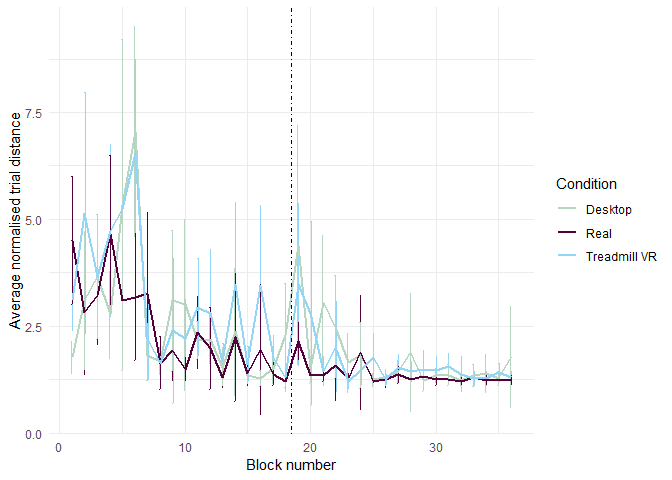
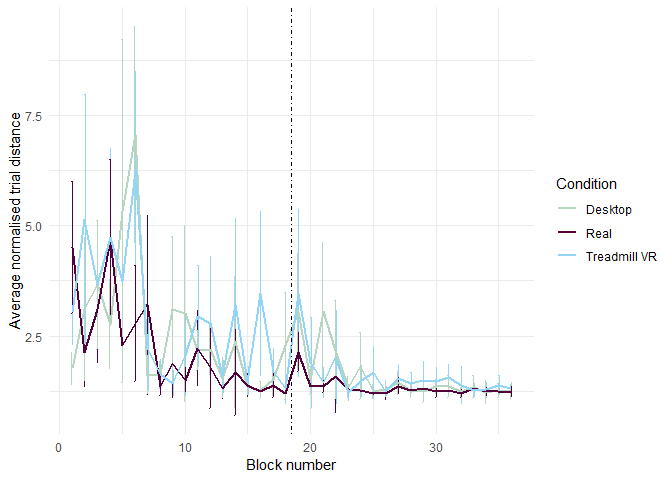
updates paper all data

diff --git a/Report/paper-all-data.md b/Report/paper-all-data.md
@@ -11,18 +11,12 @@ Per phase separation
 PER BLOCK
 ---------
 
-![](paper-all-data_files/figure-markdown_github/unnamed-chunk-2-1.png)![](paper-all-data_files/figure-markdown_github/unnamed-chunk-2-2.png)![](paper-all-data_files/figure-markdown_github/unnamed-chunk-2-3.png)![](paper-all-data_files/figure-markdown_github/unnamed-chunk-2-4.png)![](paper-all-data_files/figure-markdown_github/unnamed-chunk-2-5.png)![](paper-all-data_files/figure-markdown_github/unnamed-chunk-2-6.png)![](paper-all-data_files/figure-markdown_github/unnamed-chunk-2-7.png)![](paper-all-data_files/figure-markdown_github/unnamed-chunk-2-8.png)
+![](paper-all-data_files/figure-markdown_github/unnamed-chunk-2-1.png)![](paper-all-data_files/figure-markdown_github/unnamed-chunk-2-2.png)![](paper-all-data_files/figure-markdown_github/unnamed-chunk-2-3.png)![](paper-all-data_files/figure-markdown_github/unnamed-chunk-2-4.png)![](paper-all-data_files/figure-markdown_github/unnamed-chunk-2-5.png)![](paper-all-data_files/figure-markdown_github/unnamed-chunk-2-6.png)![](paper-all-data_files/figure-markdown_github/unnamed-chunk-2-7.png)![](paper-all-data_files/figure-markdown_github/unnamed-chunk-2-8.png)![](paper-all-data_files/figure-markdown_github/unnamed-chunk-2-9.png)![](paper-all-data_files/figure-markdown_github/unnamed-chunk-2-10.png)
 
 Pointing
 --------
 
-![](paper-all-data_files/figure-markdown_github/unnamed-chunk-3-1.png)![](paper-all-data_files/figure-markdown_github/unnamed-chunk-3-2.png)
-
-Block measures
-==============
-
-Sum of errors
--------------
+![](paper-all-data_files/figure-markdown_github/unnamed-chunk-3-1.png)![](paper-all-data_files/figure-markdown_github/unnamed-chunk-3-2.png) \#\# Sum of errors
 
 Measure of overall sum of errors. Mean columns define mean sum of errors for all participants in that block
 
@@ -32,9 +26,7 @@ Measure of overall sum of errors. Mean columns define mean sum of errors for all
 | Real               |     82.90909|     5.454546|     1.590909|     0.8607021|   0.0679299|     0.9632893|   0.0268788|
 | Treadmill VR       |     85.50000|    32.850000|    12.800000|     0.6195643|   0.0792096|     0.7899438|   0.0538944|
 
-    ## Using learning.condition as id variables
-
-![](paper-all-data_files/figure-markdown_github/unnamed-chunk-5-1.png)![](paper-all-data_files/figure-markdown_github/unnamed-chunk-5-2.png)![](paper-all-data_files/figure-markdown_github/unnamed-chunk-5-3.png)
+![](paper-all-data_files/figure-markdown_github/unnamed-chunk-4-1.png)![](paper-all-data_files/figure-markdown_github/unnamed-chunk-4-2.png)![](paper-all-data_files/figure-markdown_github/unnamed-chunk-4-3.png)
 
 Normalised distance
 -------------------
@@ -43,13 +35,11 @@ Measure of mean distance. First three columns define mean normalised distance in
 
 | learning.condition |  block1.mean|  block3.mean|  block4.mean|  block34.diff|  block34.se|  block14.diff|  block14.se|
 |:-------------------|------------:|------------:|------------:|-------------:|-----------:|-------------:|-----------:|
-| Desktop            |     3.947872|     1.722262|     2.854267|    -0.1640028|   0.0738046|     0.1963527|   0.0763993|
-| Real               |     3.522940|     1.575323|     1.593967|    -0.0190986|   0.0306256|     0.3613898|   0.0527887|
-| Treadmill VR       |     4.739353|     2.218745|     2.249314|    -0.0037351|   0.0487285|     0.3430108|   0.0600789|
+| Desktop            |     3.947872|     1.722262|     2.427133|    -0.1253561|   0.0729458|     0.2389973|   0.0721084|
+| Real               |     3.308835|     1.382138|     1.530321|    -0.0514270|   0.0296911|     0.3464442|   0.0453461|
+| Treadmill VR       |     4.457657|     2.161947|     2.117841|     0.0128666|   0.0527691|     0.3390977|   0.0589867|
 
-    ## Using learning.condition as id variables
-
-![](paper-all-data_files/figure-markdown_github/unnamed-chunk-6-1.png)![](paper-all-data_files/figure-markdown_github/unnamed-chunk-6-2.png)![](paper-all-data_files/figure-markdown_github/unnamed-chunk-6-3.png)
+![](paper-all-data_files/figure-markdown_github/unnamed-chunk-5-1.png)![](paper-all-data_files/figure-markdown_github/unnamed-chunk-5-2.png)![](paper-all-data_files/figure-markdown_github/unnamed-chunk-5-3.png)
 
 Stats
 =====
@@ -59,15 +49,32 @@ Block T tests
 
 Paired block comparisons for improvement in different condiutions
 
+### Block 1-4
+
+Paired t tests between min normalised distance difference in blocks 1 and 4.
+
+| condition    |     estimate|  statistic|    p.value|  parameter|  conf.low|  conf.high| method        | alternative |
+|:-------------|------------:|----------:|----------:|----------:|---------:|----------:|:--------------|:------------|
+| real-real    |     1.947895|   8.126597|  0.0000001|         20|  1.447903|   2.447888| Paired t-test | two.sided   |
+| ve-real      |     2.225610|   4.677051|  0.0001877|         18|  1.225870|   3.225349| Paired t-test | two.sided   |
+| vr-real      |     2.295710|   5.332316|  0.0000381|         19|  1.394605|   3.196815| Paired t-test | two.sided   |
+| And for numb |  er of error|          s|           |           |          |           |               |             |
+
+| condition |   estimate|  statistic|  p.value|  parameter|   conf.low|  conf.high| method        | alternative |
+|:----------|----------:|----------:|--------:|----------:|----------:|----------:|:--------------|:------------|
+| real-real |  12.909091|  16.380577|    0e+00|         21|  11.270203|   14.54798| Paired t-test | two.sided   |
+| ve-real   |   9.421053|   8.394127|    1e-07|         18|   7.063107|   11.77900| Paired t-test | two.sided   |
+| vr-real   |   8.775000|  11.168682|    0e+00|         19|   7.130555|   10.41945| Paired t-test | two.sided   |
+
 ### Block 3-4
 
 Paired t tests between min normalised distance difference in blocks 3 and 4.
 
 | condition |    estimate|   statistic|    p.value|  parameter|    conf.low|  conf.high| method        | alternative |
 |:----------|-----------:|-----------:|----------:|----------:|-----------:|----------:|:--------------|:------------|
-| real-real |  -0.0186440|  -0.1581716|  0.8758327|         21|  -0.2637728|  0.2264847| Paired t-test | two.sided   |
-| ve-real   |  -1.1320052|  -2.0610797|  0.0540446|         18|  -2.2858929|  0.0218826| Paired t-test | two.sided   |
-| vr-real   |  -0.0305689|  -0.1145055|  0.9100385|         19|  -0.5893326|  0.5281947| Paired t-test | two.sided   |
+| real-real |  -0.1481832|  -1.1666069|  0.2564469|         21|  -0.4123373|  0.1159708| Paired t-test | two.sided   |
+| ve-real   |  -0.7048706|  -1.7923125|  0.0899076|         18|  -1.5311094|  0.1213682| Paired t-test | two.sided   |
+| vr-real   |   0.0441062|   0.1566285|  0.8771900|         19|  -0.5452841|  0.6334965| Paired t-test | two.sided   |
 
 And for number of errors
 
@@ -81,12 +88,12 @@ And for number of errors
 
 Paired t tests between min normalised distance difference in blocks 1 and 4.
 
-| condition    |     estimate|  statistic|    p.value|  parameter|    conf.low|  conf.high| method        | alternative |
-|:-------------|------------:|----------:|----------:|----------:|-----------:|----------:|:--------------|:------------|
-| real-real    |     1.928734|   5.431976|  0.0000257|         20|   1.1880702|   2.669398| Paired t-test | two.sided   |
-| ve-real      |     1.093604|   1.928134|  0.0697654|         18|  -0.0980027|   2.285211| Paired t-test | two.sided   |
-| vr-real      |     2.490039|   5.001329|  0.0000793|         19|   1.4479740|   3.532105| Paired t-test | two.sided   |
-| And for numb |  er of error|          s|           |           |            |           |               |             |
+| condition    |     estimate|  statistic|    p.value|  parameter|   conf.low|  conf.high| method        | alternative |
+|:-------------|------------:|----------:|----------:|----------:|----------:|----------:|:--------------|:------------|
+| real-real    |     1.781306|   6.130112|  0.0000054|         20|  1.1751603|   2.387451| Paired t-test | two.sided   |
+| ve-real      |     1.520739|   3.299164|  0.0039887|         18|  0.5523257|   2.489152| Paired t-test | two.sided   |
+| vr-real      |     2.339816|   4.684741|  0.0001614|         19|  1.2944454|   3.385187| Paired t-test | two.sided   |
+| And for numb |  er of error|          s|           |           |           |           |               |             |
 
 | condition |  estimate|  statistic|  p.value|  parameter|   conf.low|  conf.high| method        | alternative |
 |:----------|---------:|----------:|--------:|----------:|----------:|----------:|:--------------|:------------|
@@ -100,9 +107,9 @@ Paired t tests between min normalised distance difference in blocks 1 and 6.
 
 | condition |  estimate|  statistic|  p.value|  parameter|  conf.low|  conf.high| method        | alternative |
 |:----------|---------:|----------:|--------:|----------:|---------:|----------:|:--------------|:------------|
-| real-real |  2.283372|   8.817858|  0.0e+00|         20|  1.743215|   2.823529| Paired t-test | two.sided   |
-| ve-real   |  2.563180|   6.199245|  7.5e-06|         18|  1.694519|   3.431841| Paired t-test | two.sided   |
-| vr-real   |  3.511071|   8.363107|  1.0e-07|         18|  2.629044|   4.393098| Paired t-test | two.sided   |
+| real-real |  2.069267|   8.578768|  0.0e+00|         20|  1.566116|   2.572418| Paired t-test | two.sided   |
+| ve-real   |  2.640617|   6.472810|  4.3e-06|         18|  1.783535|   3.497699| Paired t-test | two.sided   |
+| vr-real   |  3.230200|   7.471135|  6.0e-07|         18|  2.321851|   4.138549| Paired t-test | two.sided   |
 
 And for number of errors
 
@@ -119,17 +126,17 @@ Independent block improvement comparisons between conditions for distance
 
 | Comparison        |  mean.first|  mean.second|    p.value|
 |:------------------|-----------:|------------:|----------:|
-| Desktop - real    |  -0.1440074|   -0.3589776|  0.0553851|
-| Treadmil - real   |  -0.3252250|   -0.3589776|  0.6757288|
-| Treadmil- Desktop |  -0.3252250|   -0.1440074|  0.1147730|
+| Desktop - real    |  -0.2006440|   -0.3444842|  0.1514791|
+| Treadmil - real   |  -0.3152113|   -0.3444842|  0.7041065|
+| Treadmil- Desktop |  -0.3152113|   -0.2006440|  0.2722008|
 
 ### Block 3-4 improvement
 
 | Comparison        |  mean.first|  mean.second|    p.value|
 |:------------------|-----------:|------------:|----------:|
-| Desktop - real    |   0.1640028|    0.0190986|  0.0822302|
-| Treadmil - real   |   0.0037351|    0.0190986|  0.7912053|
-| Treadmil- Desktop |   0.0037351|    0.1640028|  0.0795178|
+| Desktop - real    |   0.1253561|    0.0514270|  0.3572766|
+| Treadmil - real   |  -0.0128666|    0.0514270|  0.2967233|
+| Treadmil- Desktop |  -0.0128666|    0.1253561|  0.1342036|
 
 Independent block improvement comparisons between conditions for number of errors
 ---------------------------------------------------------------------------------
@@ -155,12 +162,12 @@ Anova
 
 Simple between subjects anova
 
-|                                   |    Df|       Sum Sq|      Mean Sq|     F value|  Pr(&gt;F)|
-|-----------------------------------|-----:|------------:|------------:|-----------:|----------:|
-| exp\_block\_id                    |     1|   1212.43888|  1212.438885|  191.138055|  0.0000000|
-| learning.condition                |     2|     65.68384|    32.841918|    5.177449|  0.0057266|
-| exp\_block\_id:learning.condition |     2|     28.95909|    14.479545|    2.282665|  0.1023067|
-| Residuals                         |  1803|  11436.90255|     6.343263|          NA|         NA|
+|                                   |    Df|      Sum Sq|      Mean Sq|     F value|  Pr(&gt;F)|
+|-----------------------------------|-----:|-----------:|------------:|-----------:|----------:|
+| exp\_block\_id                    |     1|  1065.02676|  1065.026765|  205.201439|  0.0000000|
+| learning.condition                |     2|    61.91766|    30.958832|    5.964918|  0.0026193|
+| exp\_block\_id:learning.condition |     2|    22.76192|    11.380962|    2.192799|  0.1119080|
+| Residuals                         |  1764|  9155.42903|     5.190152|          NA|         NA|
 
 ### Normalised distance
 
@@ -172,15 +179,15 @@ Within subjects anova for block 3-4 difference.
 <td>
 |     | Effect                            |  DFn|  DFd|         F|          p| p&lt;.05 |        ges|
 |-----|:----------------------------------|----:|----:|---------:|----------:|:---------|----------:|
-| 2   | learning.condition                |    2|   58|  3.310848|  0.0434950| \*       |  0.0664271|
-| 3   | exp\_block\_id                    |    1|   58|  3.998625|  0.0502287|          |  0.0253169|
-| 4   | learning.condition:exp\_block\_id |    2|   58|  3.406268|  0.0399301| \*       |  0.0423779|
+| 2   | learning.condition                |    2|   58|  6.652379|  0.0025060| \*       |  0.1096784|
+| 3   | exp\_block\_id                    |    1|   58|  2.832637|  0.0977427|          |  0.0221110|
+| 4   | learning.condition:exp\_block\_id |    2|   58|  1.886117|  0.1608444|          |  0.0292310|
 
 </td>
 </tr>
 </tbody>
 </table>
-![](paper-all-data_files/figure-markdown_github/unnamed-chunk-23-1.png)
+![](paper-all-data_files/figure-markdown_github/unnamed-chunk-24-1.png)
 
 Within subjects anova for block 1-4 difference in minimal path.
 
@@ -188,17 +195,17 @@ Within subjects anova for block 1-4 difference in minimal path.
 <tbody>
 <tr>
 <td>
-|     | Effect                            |  DFn|  DFd|          F|          p| p&lt;.05 |        ges|
-|-----|:----------------------------------|----:|----:|----------:|----------:|:---------|----------:|
-| 2   | learning.condition                |    2|   57|   3.902843|  0.0257905| \*       |  0.0704320|
-| 3   | exp\_block\_id                    |    1|   57|  44.825263|  0.0000000| \*       |  0.2599699|
-| 4   | learning.condition:exp\_block\_id |    2|   57|   2.127102|  0.1285465|          |  0.0322646|
+|     | Effect                            |  DFn|  DFd|           F|          p| p&lt;.05 |        ges|
+|-----|:----------------------------------|----:|----:|-----------:|----------:|:---------|----------:|
+| 2   | learning.condition                |    2|   57|   4.7875237|  0.0119690| \*       |  0.0805653|
+| 3   | exp\_block\_id                    |    1|   57|  59.5077079|  0.0000000| \*       |  0.3330743|
+| 4   | learning.condition:exp\_block\_id |    2|   57|   0.9668416|  0.3864303|          |  0.0159693|
 
 </td>
 </tr>
 </tbody>
 </table>
-![](paper-all-data_files/figure-markdown_github/unnamed-chunk-24-1.png)
+![](paper-all-data_files/figure-markdown_github/unnamed-chunk-25-1.png)
 
 ### Number of errors
 
@@ -210,15 +217,15 @@ Within subjects anova for block 1-4 number of errors.
 <td>
 |     | Effect                            |  DFn|  DFd|           F|          p| p&lt;.05 |        ges|
 |-----|:----------------------------------|----:|----:|-----------:|----------:|:---------|----------:|
-| 2   | learning.condition                |    2|   57|    2.777875|  0.0706020|          |  0.0452731|
-| 3   | exp\_block\_id                    |    1|   57|  220.022968|  0.0000000| \*       |  0.6646649|
-| 4   | learning.condition:exp\_block\_id |    2|   57|    2.406574|  0.0992268|          |  0.0415576|
+| 2   | learning.condition                |    2|   57|    2.846774|  0.0663105|          |  0.0460987|
+| 3   | exp\_block\_id                    |    1|   57|  253.898477|  0.0000000| \*       |  0.6969041|
+| 4   | learning.condition:exp\_block\_id |    2|   57|    1.703376|  0.1912041|          |  0.0299280|
 
 </td>
 </tr>
 </tbody>
 </table>
-![](paper-all-data_files/figure-markdown_github/unnamed-chunk-25-1.png)
+![](paper-all-data_files/figure-markdown_github/unnamed-chunk-26-1.png)
 
 Within subjects anova for block 3-4 number of errors.
 
@@ -226,14 +233,27 @@ Within subjects anova for block 3-4 number of errors.
 <tbody>
 <tr>
 <td>
-|     | Effect                   |  DFn|  DFd|         F|          p| p&lt;.05 |        ges|
-|-----|:-------------------------|----:|----:|---------:|----------:|:---------|----------:|
-| 2   | condition                |    2|   58|  7.758076|  0.0010335| \*       |  0.1650409|
-| 3   | exp\_block\_id           |    1|   58|  5.135623|  0.0271868| \*       |  0.0225990|
-| 4   | condition:exp\_block\_id |    2|   58|  1.247006|  0.2949528|          |  0.0111038|
+|     | Effect                   |  DFn|  DFd|          F|          p| p&lt;.05 |        ges|
+|-----|:-------------------------|----:|----:|----------:|----------:|:---------|----------:|
+| 2   | condition                |    2|   58|  9.7812233|  0.0002185| \*       |  0.1793309|
+| 3   | exp\_block\_id           |    1|   58|  5.6678041|  0.0205845| \*       |  0.0332652|
+| 4   | condition:exp\_block\_id |    2|   58|  0.4700672|  0.6273202|          |  0.0056753|
 
 </td>
 </tr>
 </tbody>
 </table>
-![](paper-all-data_files/figure-markdown_github/unnamed-chunk-26-1.png)
+![](paper-all-data_files/figure-markdown_github/unnamed-chunk-27-1.png)
+
+Office specific learning
+------------------------
+
+    ##   learning.condition block2 block3 block4 block5 block6
+    ## 1            Desktop  -0.23   0.24   0.39   0.39   0.39
+    ## 2               Real   0.10   0.08   0.34   0.40   0.13
+    ## 3       Treadmill VR  -0.08   0.27   0.32   0.26   0.13
+
+    ##   learning.condition block2 block3 block4 block5 block6
+    ## 1            Desktop  -0.04   0.33  -0.04   0.00   0.12
+    ## 2               Real   0.08  -0.04   0.08   0.15   0.00
+    ## 3       Treadmill VR  -0.01   0.07   0.04   0.01   0.06
